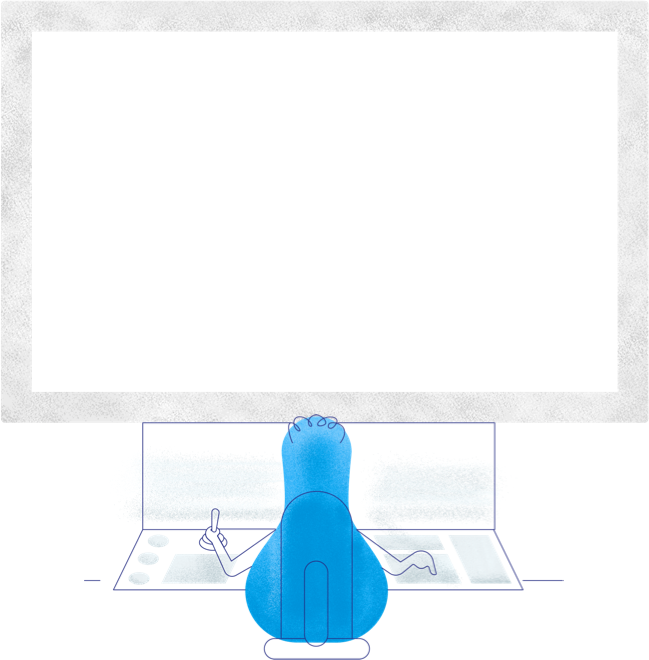
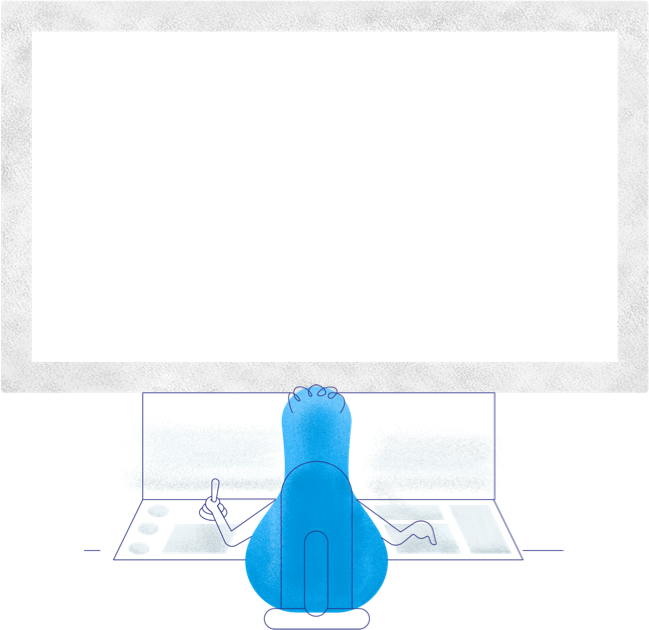
update image height

diff --git a/private/sass/components/_home.scss b/private/sass/components/_home.scss
@@ -27,13 +27,13 @@
 
 .efh-video {
     width: 650px;
-    height: 660px;
+    height: 630px;
     padding: 32px;
     margin: 0 auto;
     background: url("../img/video.png") no-repeat center top;
     .embed-responsive {
         @include media-breakpoint-up(md) {
-            height: 360px;
+            height: 330px;
         }
     }
 
